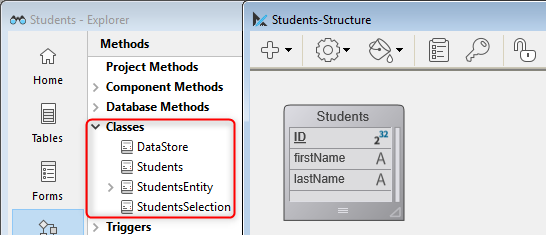
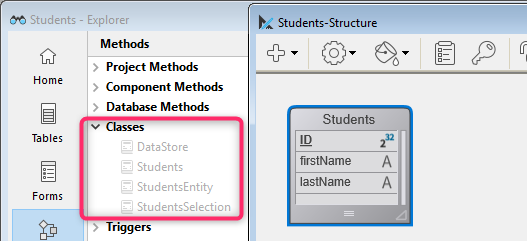
fixed ORDA class overview example and creation

diff --git a/docs/ORDA/ordaClasses.md b/docs/ORDA/ordaClasses.md
@@ -35,16 +35,7 @@ Thanks to this feature, the entire business logic of your 4D application can be 
 ![](assets/en/ORDA/api.png)
 
 
-In addition, 4D Developer automatically creates the classes for each available data model object. For example, consider this simple database containing a single `[Students]` table. You can see that 4D has automatically created the classes:
-
-![](assets/en/ORDA/ORDA_Classes-3.png)
-
-- DataStore - class for the datastore
-- Students - class for the Students dataclass
-- StudentsEntity - class for the Students entities
-- StudentsSelection - class for the Students entity selections
-
-
+In addition, 4D Developer [automatically pre-creates](#creating-classes) the classes for each available data model object. 
 
 
 ## Architecture
@@ -62,7 +53,7 @@ All ORDA data model classes are exposed as properties of the **`cs`** class stor
 |cs.*DataClassName*Entity|cs.EmployeeEntity|`dataClass.get()`, `dataClass.new()`, `entitySelection.first()`, `entitySelection.last()`, `entity.previous()`, `entity.next()`, `entity.first()`, `entity.last()`, `entity.clone()`|
 |cs.*DataClassName*Selection|cs.EmployeeSelection|`dataClass.query()`, `entitySelection.query()`, `dataClass.all()`, `dataClass.fromCollection()`, `dataClass.newSelection()`, `entitySelection.drop()`, `entity.getSelection()`, `entitySelection.and()`, `entitySelection.minus()`, `entitySelection.or()`, `entitySelection.orderBy()`, `entitySelection.orderByFormula()`, `entitySelection.slice()`, `Create entity selection`|
 
-> ORDA user classes are stored as regular class files (.4dm) in the Classes subfolder of the project [(see below)](#support-in-4d-projects).  
+> ORDA user classes are stored as regular class files (.4dm) in the Classes subfolder of the project [(see below)](#class-files).  
 
 In addition, object instances from ORDA data model user classes benefit from their parent's properties and functions. For example, an Entity class object can call functions from the [ORDA Entity generic class](https://doc.4d.com/4Dv18R3/4D/18-R3/ORDA-Entity.201-4900374.en.html).
 
@@ -131,7 +122,7 @@ Function GetBestOnes()
 Then, you can get an entity selection of the "best" companies by executing: 
 
 ```4d
-	var $best : cs.Company 
+	var $best : cs.CompanySelection
 	$best:=ds.Company.GetBestOnes()
 ```
 
@@ -266,31 +257,32 @@ When creating or editing data model classes, you must pay attention to the rules
 
 ## Support in 4D projects
 
-ORDA data model user class files must be stored at the [same location as regular class files](Concepts/classes.md#class-files), *i.e.* in the `/Sources/Classes` folder of the project folder.
 
+### Class files
 
+An ORDA data model user class is defined by adding, at the [same location as regular class files](Concepts/classes.md#class-files) (*i.e.* in the `/Sources/Classes` folder of the project folder), a .4dm file with the name of the class. For example, an entity class for the `Utilities` dataclass will be defined through a `UtilitiesEntity.4dm` file. 
 
 
 ### Creating classes
 
-You create an ORDA user class by adding a corresponding file in the *Classes* folder. For example, to create an entity class for the `Utilities` dataclass, you need to create a `UtilitiesEntity.4dm` file. 
+4D automatically pre-creates empty classes in memory for each available data model object.
 
-A class file can be created by a simple double-click in the Classes theme of the 4D Explorer. ORDA user classes have a different icon from regular classes. Empty classes are dimmed:
+![](assets/en/ORDA/ORDA_Classes-3.png)
+
+> By default, empty ORDA classes are not displayed in the Explorer. You need to show them by selecting **Show all data classes** from the Explorer's options menu:
+![](assets/en/ORDA/showClass.png)
+
+ORDA user classes have a different icon from regular classes. Empty classes are dimmed:
 
 ![](assets/en/ORDA/classORDA2.png)
 
-
-Double-click on a class name. 4D creates the ORDA class file and add the `extends` code. Example for an Entity class:
+To create an ORDA class file, you just need to double-click on the corresponding predefined class in the Explorer. 4D creates the class file and add the `extends` code. For example, for an Entity class:
 
 ```
 Class extends Entity
 ``` 
 
 Once a class is defined, its name is no longer dimmed in the Explorer. 
-
-> By default, empty ORDA classes are not displayed in the Explorer. You need to show them by selecting **Show all data classes** from the Explorer's options menu:
-![](assets/en/ORDA/showClass.png)
-
 
 
 ### Editing classes
